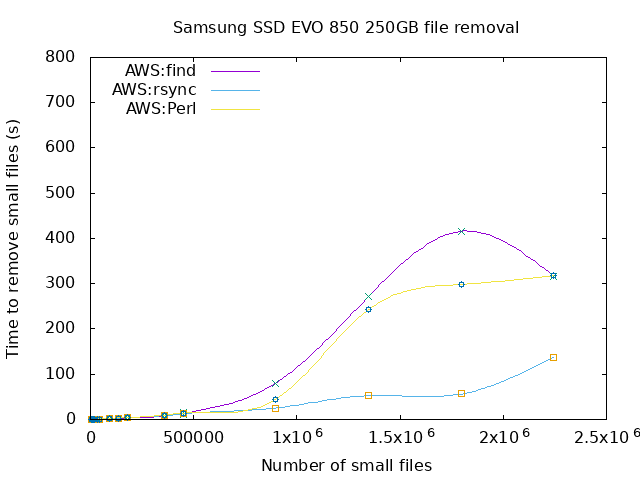
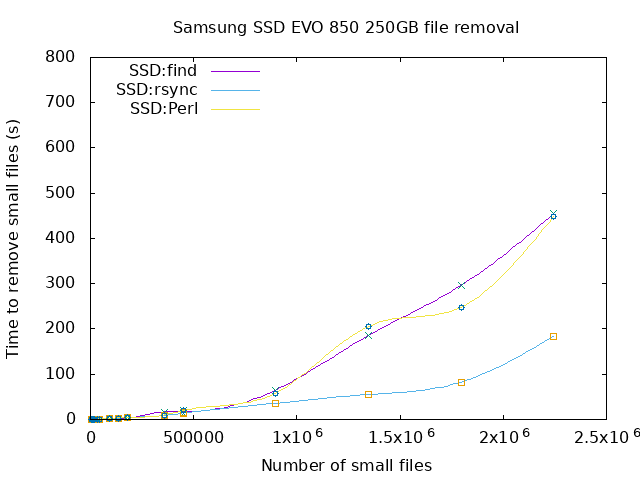
Added EVO

diff --git a/README.md b/README.md
@@ -46,3 +46,9 @@ Running doit.sh on the provisioned volume. Raw sesults are in AWS/
 Running doit.sh on the provisioned volume. Raw sesults are in FLEX/
 
 ![Small file deletion Flex](deleting_small_files_flex.png "Deletion of small files Flex")
+
+### SSD Samsung EVO 850 250GB SSD.
+
+Something very unusual happens here. find . -delete is slower and shows a non-exponential curve. Reproducible. Needs investigation.
+
+![Small file deletion Flex](deleting_small_files_evo.png "Deletion of small files Samsung EVO 850")
